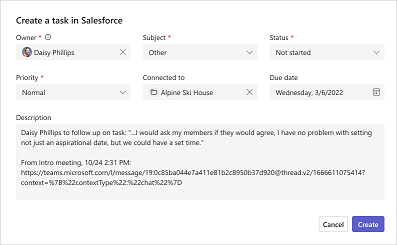
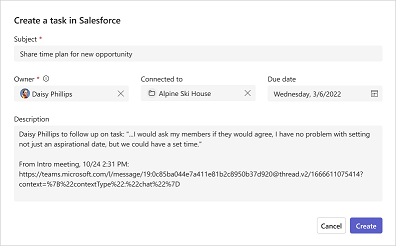
Update info for create task in SFDC
Category: Bug/Issue

Workitem: https://dynamicscrm.visualstudio.com/OneCRM/_workitems/edit/3590192

Description: Update info for create task in SFDC

diff --git a/articles/create-crm-tasks-meeting-summary.md b/articles/create-crm-tasks-meeting-summary.md
@@ -1,7 +1,7 @@
 ---
 title: Create CRM tasks from meeting summary
 description: Learn how to create CRM tasks from meeting summary.
-ms.date: 08/28/2023
+ms.date: 09/13/2023
 ms.topic: article
 ms.service: microsoft-sales-copilot
 author: sbmjais
@@ -28,7 +28,7 @@ You can convert the suggested action items in a meeting summary to a task and sa
    | Owner | Who will complete the task; if it isn't you, you can assign someone else | Yes |
    | Connected to | A record that provides information about the task; select from accounts and opportunities that are associated with the email's recipients | No |
    | Due date | The date by which the owner should complete the task | No |
-   | Description | Text snippet of the follow-up item; you can change it if needed. **Note**: A link to the meeting is populated automatically in this field. | No |
+   | Description | Text snippet of the follow-up item; you can change it if needed. <br><br> **Note**: A link to the meeting is populated automatically in this field. | No |
 
    :::image type="content" source="media/create-crm.png" alt-text="Screenshot showing the Create CRM task in Dynamics 365.":::
 
@@ -50,13 +50,11 @@ You can convert the suggested action items in a meeting summary to a task and sa
 
    | Item | Description | Required |
    |------|-------------|----------|
+   | Subject | Name of the task | Yes |
    | Owner | Who will complete the task; if it isn't you, you can assign someone else | Yes |
-   | Subject | Select a value or leave the default | Yes |
-   | Status | Select a value or leave the default | Yes |
-   | Priority | Select a value or leave the default | Yes |
    | Connected to | A record that provides information about the task; select from accounts and opportunities that are associated with the email's recipients | No |
    | Due date | The date by which the owner should complete the task | No |
-   | Description | Text snippet of the follow-up item; you can change it if needed. **Note**: A link to the meeting is populated automatically in this field. | No |
+   | Description | Text snippet of the follow-up item; you can change it if needed. <br><br> **Note**: A link to the meeting is populated automatically in this field. | No |
 
    :::image type="content" source="media/create-salesforce.png" alt-text="Screenshot showing the Create CRM task in Salesforce.":::
 
